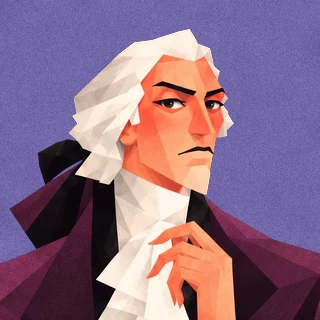
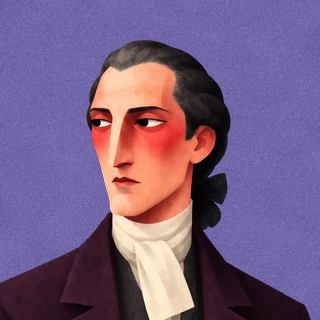
Art: new Le nozze di Figaro cut-outs (Figaro, Susanna, the Countess, the Count, Cherubino)
Claude-Session: https://claude.ai/code/session_01J9nR1BmP9TjDnKqecdbpyd

diff --git a/scripts/art/build.py b/scripts/art/build.py
@@ -13,7 +13,7 @@ kids = {}
 for x in nodes: kids.setdefault(x['parent'], []).append(x)
 frames = [x for x in nodes if x['type'] == 'FRAME' and x['parent'] == '0:1']
 # flat-colour images and the cut-out with the same picture (checked pixel for pixel)
-CUTOUT = {'fe348f': 'd201fa', '3b62b0': '2351a6', '8592af': 'ee0895', '130313': 'ff8c08', 'afda86': '4f735b'}
+CUTOUT = {'fe348f': 'd201fa', '3b62b0': '2351a6', '8592af': 'ee0895', '130313': 'ff8c08', 'afda86': '4f735b', 'e8c371': 'd637af'}
 SIZES = {'portrait': (720, 964), 'face': (320, 320), 'cover': (1600, 893), 'square': (480, 480)}
 _cache = {}
 def img(h):
